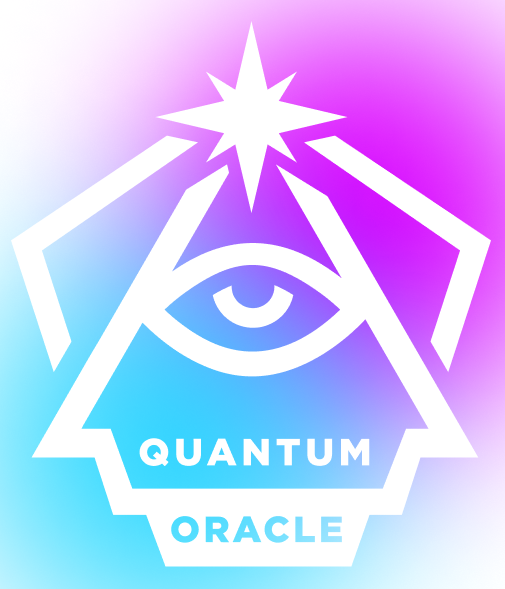
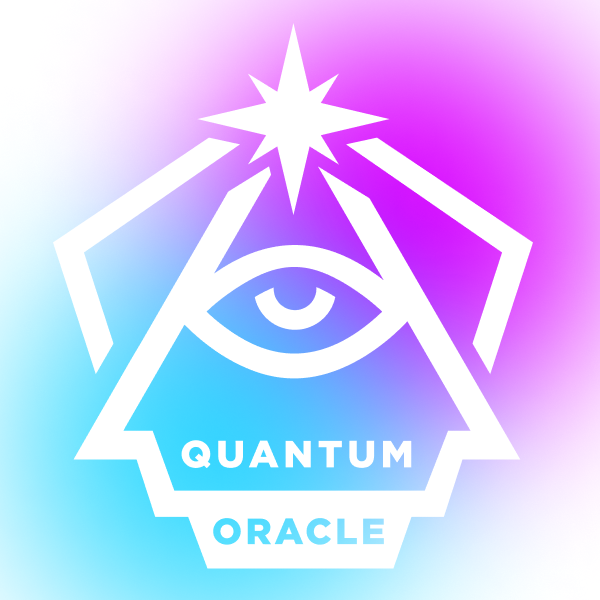
fixed extension button possition, revised layout

diff --git a/extension/popup/Popup.tsx b/extension/popup/Popup.tsx
@@ -1,10 +1,27 @@
-import React, { useRef } from 'react';
+import React, { useRef, useState } from 'react';
 import ReactDOM from 'react-dom/client';
-
+import * as yup from 'yup';
 import './popup.css';
 
 const Popup: React.FC = () => {
+  const [urlInputValue, setUrlInputValue] = useState<string>('');
+  const [validating, setValidating] = useState<boolean>(false);
+  const [isInvalid, setInvalid] = useState<boolean>(false);
+  const [error, setError] = useState<string | null>('');
+  const [dirtry, setDirty] = useState<boolean>(false);
+  const [submitting, setSubmitting] = useState<boolean>(false);
+
   const inputRef = useRef<HTMLInputElement>(null);
+
+  const urlValidationSchema = { url: yup.string().required().url() };
+  const validate = (url: string) => yup.object().shape(urlValidationSchema).validate({ url });
+
+  const buttonHandler = () => {
+    chrome.runtime.sendMessage({ url: null }, (response) => {
+      console.log('button handler sendMessage response: ', response);
+    });
+  };
+
   const notarizeHandler: React.MouseEventHandler<HTMLButtonElement> = (event) => {
     event.preventDefault();
 
@@ -14,30 +31,85 @@ const Popup: React.FC = () => {
       });
     });
   };
-  const submitHandler: React.MouseEventHandler<HTMLButtonElement> = (event) => {
-    event.preventDefault();
-    if (!!inputRef.current) {
-      chrome.runtime.sendMessage({ url: inputRef.current.value }, (response) => {
-        console.log('button handler sendMessage response: ', response);
-      });
+
+  const changeInputHandler: React.ChangeEventHandler<HTMLInputElement> = (event) => {
+    setUrlInputValue(event.currentTarget.value);
+    if (dirtry) {
+      validate(event.currentTarget.value)
+        .then((data) => {
+          setInvalid(false);
+          setError(null);
+          setValidating(false);
+        })
+        .catch((error: yup.ValidationError) => {
+          setInvalid(true);
+          setError(error.message);
+        });
     }
   };
 
+  const submitHandler: React.FormEventHandler<HTMLFormElement> = (event) => {
+    event.preventDefault();
+    setDirty(true);
+    setValidating(true);
+    validate(urlInputValue)
+      .then(() => {
+        setValidating(false);
+        setInvalid(false);
+        setSubmitting(true);
+
+        chrome.runtime.sendMessage({ url: urlInputValue }, (response) => {
+          console.log('button handler sendMessage response: ', response);
+          setSubmitting(false);
+        });
+      })
+      .catch((error: yup.ValidationError) => {
+        setInvalid(true);
+        setError(error.message);
+        inputRef.current?.focus();
+      });
+  };
+
   return (
-    <div>
-      <h1>Notarize everything!</h1>
-      <div>
-        <h3>Press button to notorize current page</h3>
+    <div className='container'>
+      <div className='background'></div>
+      <div className='icon-container' onClick={buttonHandler}>
+        <img src='icon-header.png' alt='icon' className='icon-container__icon' />
+      </div>
+      <h1 className='h1'>Save your evidence</h1>
+      <div className='send-url-container'>
+        <h3 className='h3'>Submit a url of a resource you want to be saved forever:</h3>
+        <form className='send-url-container_form' onSubmit={submitHandler}>
+          <label htmlFor='url' hidden={true}>
+            URL
+          </label>
+          <input
+            className='send-url-container_input'
+            ref={inputRef}
+            name='url'
+            autoComplete='off'
+            placeholder='url'
+            value={urlInputValue}
+            onChange={changeInputHandler}
+          ></input>
+          <button
+            type='submit'
+            className='btn-notarize'
+            aria-label='submit-button'
+            disabled={validating || isInvalid || submitting}
+          >
+            Submit
+          </button>
+          <div className='send-url-container_error' hidden={!isInvalid}>
+            {error}
+          </div>
+        </form>
+      </div>
+      <div className='send-url-container'>
+        <h3 className='h3'>Press button to notorize current page</h3>
         <div>
           <button onClick={notarizeHandler} className='btn-notarize'>
             Notarize current page
-          </button>
-        </div>
-        <h3>Or submit a url of a resource you want to be saved forever:</h3>
-        <div>
-          <input ref={inputRef} placeholder='url'></input>
-          <button onClick={submitHandler} className='btn-notarize'>
-            Submit
           </button>
         </div>
       </div>

diff --git a/extension/content/content.ts b/extension/content/content.ts
@@ -6,37 +6,27 @@ const buttonHandler = (url: string) => () => {
   });
 };
 
+const bodyObserverCallback = () => {
+  const articles = document.querySelectorAll('article');
+
+  articles.forEach((article) => {
+    const notarizeButton = article.querySelector('[data-notarize="true"]');
+    if (!!notarizeButton) return;
+
+    const idLink = article.querySelector('a:has(time)') as HTMLAnchorElement;
+    if (!idLink) return;
+    
+    const href = idLink?.href;
+    const button = document.createElement('button');
+    button.classList.add('btn-test');
+    button.setAttribute('data-notarize', 'true');
+    button.textContent = 'notarize';
+    button.onclick = buttonHandler(href);
+    article.appendChild(button);
+  });
+};
+
 const addNotarizeButtons = () => {
-  const bodyObserverCallback = (mutationList: any, bodyObserver: any) => {
-    mutationList.forEach((mutationRecord: any) => {
-      mutationRecord.addedNodes.forEach((node: any) => {
-        if (!!node.tagName && node.tagName.toLocaleLowerCase() === 'section') {
-          const tweetsObserver = new MutationObserver((mutationList, tweetsObserver) => {
-            mutationList.forEach((mutationRecord) => {
-              mutationRecord.addedNodes.forEach((node: any) => {
-                if (node.getAttribute('data-testid') === 'cellInnerDiv') {
-                  const article = node.querySelector('article');
-
-                  if (!!article) {
-                    const link = article.querySelector('a:has(time)');
-                    const href = link?.href;
-                    const button = document.createElement('button');
-                    button.classList.add('btn-test');
-                    button.textContent = 'notarize';
-                    button.onclick = buttonHandler(href);
-                    article.appendChild(button);
-                  }
-                }
-              });
-            });
-          });
-
-          tweetsObserver.observe(node, { attributes: false, childList: true, subtree: true });
-        }
-      });
-    });
-  };
-
   const bodyObserver = new MutationObserver(bodyObserverCallback);
   const body = document.querySelector('body')!;
   const observerConfig = { attributes: false, childList: true, subtree: true };

diff --git a/extension/popup/popup.css b/extension/popup/popup.css
@@ -1,5 +1,124 @@
+* {
+  padding: 0;
+  margin: 0;
+  box-sizing: inherit;
+}
+
+html {
+  box-sizing: border-box;
+  font-size: 62.5%;
+}
 body {
-  background-color: white;
-  width: 300px;
+  font-family: sans-serif;
+  color: #f8f9fa;
+  width: 350px;
   padding: 10px 20px 20px;
+  background-color: #0d0c27;
+}
+
+.h1 {
+  font-size: 2.5rem;
+  font-weight: 700;
+  margin: 2rem 0;
+}
+
+.h3 {
+  font-size: 1.5rem;
+  margin: 1.5rem 0;
+}
+
+.container {
+  width: 100%;
+  height: 100%;
+}
+
+.background {
+  position: fixed;
+  opacity: 0.2;
+  z-index: -1;
+  bottom: 0;
+  right: 20px;
+  width: 100%;
+  height: 100%;
+
+  background: url('../static/background.png');
+  background-size: 450px;
+  background-repeat: no-repeat;
+  background-position: bottom;
+}
+
+.icon-container {
+  width: 20%;
+  position: fixed;
+  top: 10px;
+  right: 10px;
+  cursor: pointer;
+  transition: all 0.2s;
+}
+
+.icon-container:hover {
+  transform: scale(1.05);
+}
+
+.icon-container__icon {
+  width: 100%;
+  height: 100%;
+}
+
+.btn-notarize {
+  color: #f8f9fa;
+  background-color: #5f3dc4;
+  padding: 1rem 2rem;
+  border: none;
+  border-radius: 5px;
+  font-weight: 500;
+  font-size: 1.6rem;
+  cursor: pointer;
+  transition: all 0.2s;
+}
+
+.btn-notarize:disabled {
+  background-color: darkgray;
+  cursor: not-allowed;
+  transform: scale(1) !important;
+}
+
+.btn-notarize:hover,
+.btn-notarize:active {
+  transform: scale(1.03);
+}
+
+.send-url-container {
+  padding: 7px;
+}
+
+.send-url-container_form {
+  position: relative;
+  display: flex;
+}
+
+.send-url-container_input {
+  flex: 1 0;
+  margin-right: 5px;
+  padding: 10px;
+  border: none;
+  border-radius: 5px;
+}
+
+.send-url-container:focus,
+.send-url-container_input:focus-visible {
+  outline: double #5f3dc4;
+}
+
+.send-url-container_error {
+  position: absolute;
+  bottom: -44px;
+  border: 1px solid red;
+  border-radius: 5px;
+  background-color: red;
+  color: white;
+  font-weight: 700;
+  font-size: 1.6rem;
+  text-align: center;
+  padding: 1rem 2rem;
 }

diff --git a/extension/background/background.ts b/extension/background/background.ts
@@ -11,6 +11,12 @@ chrome.runtime.onMessage.addListener((msg, sender, sendResponse) => {
           sendResponse('Service worker response: url handled');
         });
     }
+    if (msg.url === null) {
+      chrome.tabs.create({
+        url: `https://quantumoracle.app`,
+        index: activeTabIndex + 1,
+      });
+    }
   });
   return true;
 });
